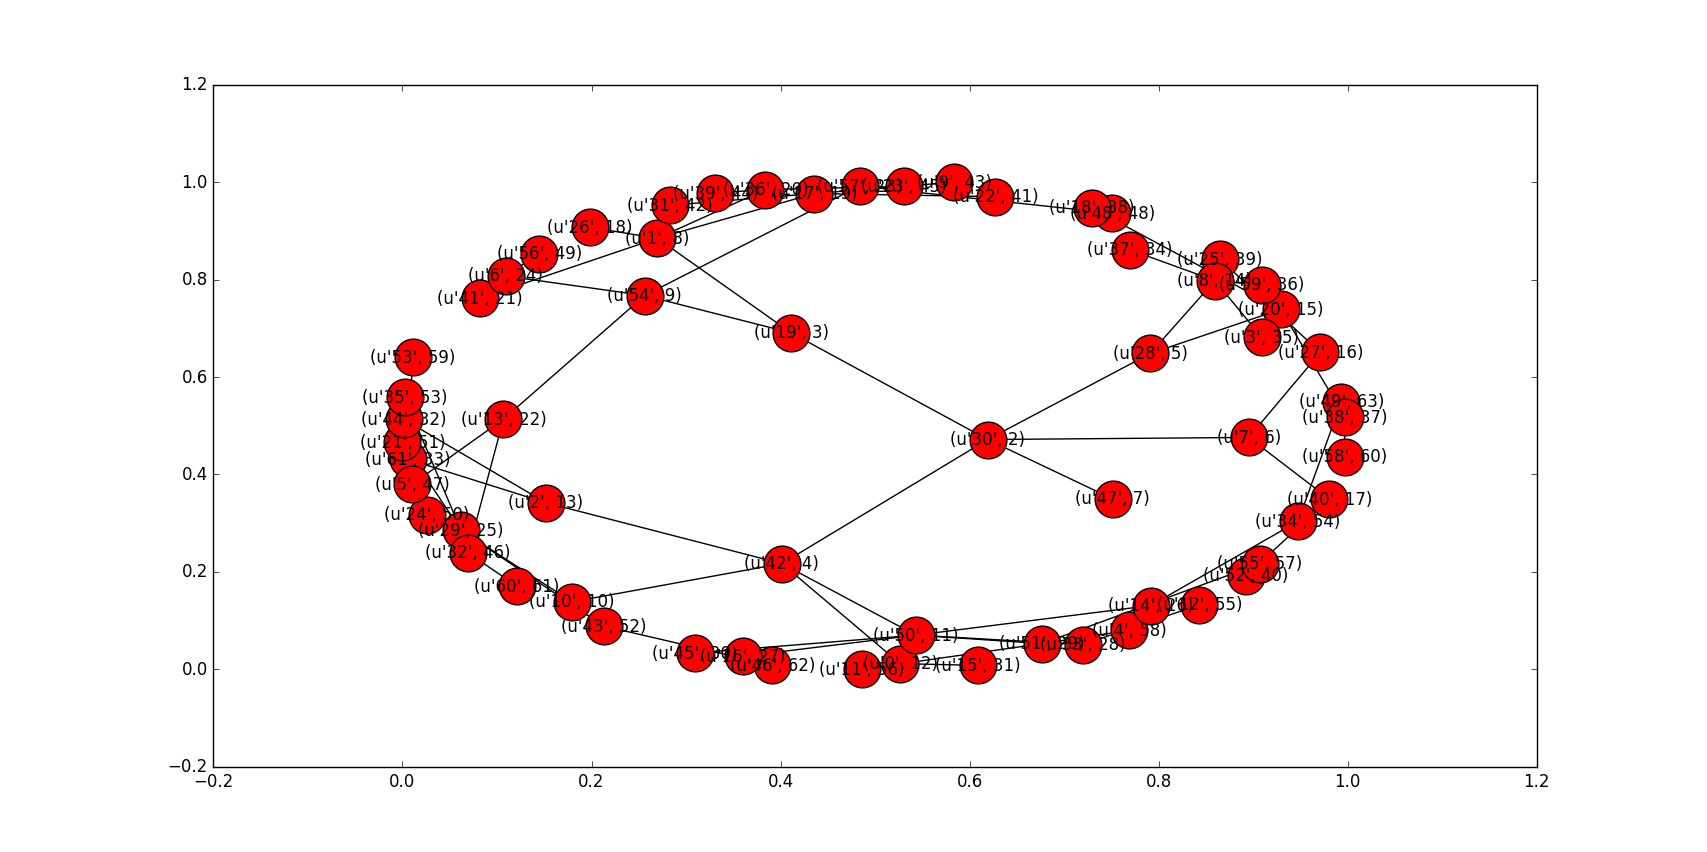
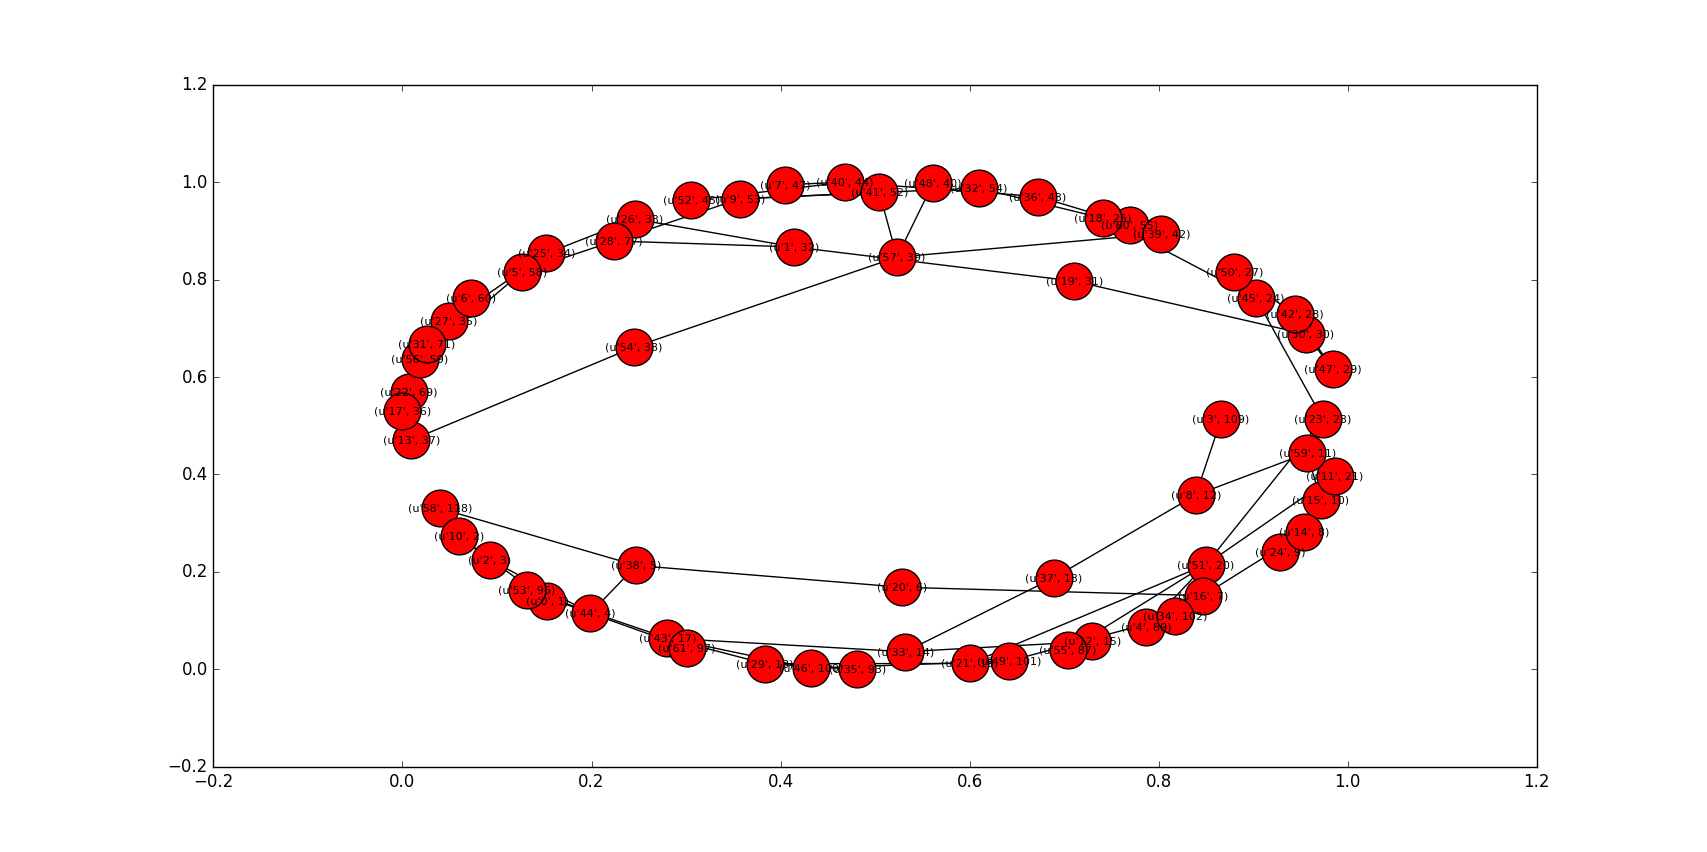
Finishing DFS: could be better

Changed region(s): [[0.2173, 0.1831, 0.8073, 0.8239], [0.5589, 0.4883, 0.621, 0.5493], [0.3105, 0.4272, 0.3415, 0.4577]]

diff --git a/BFS and DFS/dfs.py b/BFS and DFS/dfs.py
@@ -13,95 +13,45 @@ def dfs(G,s):
     for v in G.nodes():
         G.node[v]['color'] = 'white'
         G.node[v]['pi'] = None
-    #incrementa o tempo
-    global time 
+    dfs_visit(G,s)
+
+def dfs_visit(G,u):
+    #dicionario
+    global P 
+    global time
     time += 1
-    #inicia a raiz com a cor cinza e define seu tempo de entrada
-    #G.node[u]['ud'] = time
+    #tempo de entrada do nó
+    G.node[u]['ud'] = time 
     G.node[u]['color'] = 'gray'
-    #inicia a fila Q fazia e insere a raiz na fila
-    Q = deque()
-    Q.append(s)
-    #inicia a fila auxiliar
-    visited = []
-    #enquanto fila não estiver vazia
-    while (len(Q) > 0):
-    #obtem o primeiro elemento da fila
-        u = Q.popleft()
-        #define o tempo de entrada
-        G.node[u]['ud'] = time
-        #insere u na fila de visitados
-        visited.append[u]
-        for v in G.neighbors(u):
-            #coloco todos os vizinhos na fila
-            Q.append(v)
-
-        #tira w da fila de visitados
-        w = Q.popleft()
-        if (G.node[w]['color'] == 'white' and w not in visited):
+    for v in G.neighbors(u): 
+        if (G.node[v]['color'] == 'white'):
             #atualiza o predecessor de v
-            G.node[w]['pi'] = G.node[u]
+            G.node[v]['pi'] = G.node[u]
             #coloco u como antecessor de v
-            P[w] = u
-            #indico que v foi visitado
-            G.node[w]['color'] = 'gray'
-            visited.append[w]
-
+            P[v] = u
+            dfs_visit(G,v)
     G.node[u]['color'] = 'black'
-    time+=1
-    G.node[u]['uf'] = time
-
-    return P
+    time += 1
+    G.node[u]['uf'] = time 
 
 def main():
+    global P
     G = nx.read_pajek('dolphins.paj')
     #print G.nodes()
-    P = dfs(G,G.nodes()[25])
+    dfs(G,G.nodes()[25])
     #print G.nodes()[25]
     T = nx.Graph()
     #insere arestas em T
     T.add_edges_from([(u,v) for u, v in P.items()])
     #posicionamento do grafo T
     pos = nx.spring_layout(T)
-    #plt.figure()
-    #nx.draw(G, pos)
-    #plt.show()
-    #plt.close()
-    #plt.figure()
-    #print T.nodes()
-    #plotar vertices de T
     nx.draw_networkx_nodes(T, pos, node_size=700)
     #obter dicionário com as distâncias
-    #   QUERO MOSTRAR UF E UD 
-    #   COMO???
-    #TESTE 1 
-    '''
-    nx.draw_networkx(T, pos)
-    dict_w = nx.get_edge_attributes(T,'uf')
-    nx.draw_networkx_edge_labels(T, pos, labels = dict_w, font_size = 7, label_pos = 0.5)
-    plt.show()
-    '''
-    #FIM TESTE 1
-    #TESTE 2
-    #dist = { v: (v, data['ud'], data1['ufs']) for v, data, data1 in G.nodes(data=True)}
-    dist = { v: (v, data['ud']) for v, data in G.nodes(data=True)}
-    print 'TESMPO DE ENTRADA'
-    print dist
-    dist = { v: (v, data['uf']) for v, data in G.nodes(data=True)}
-    print 'TESMPO DE SAIDA'
-    print dist
-    '''
-    for i in dist:
-        dist[i] = []
-        dist[i].append({ v: (v, data['ud']) for v, data in G.nodes(data=True)})
-    print dist.items()
-    '''
-    #plotar arestas de T
-    nx.draw_networkx_labels(T, pos, labels=dist)
+    ud = {v: (v, data['ud']) for v, data in G.nodes(data=True)}
+    #uf = {v: (v, data['uf']) for v, data in G.nodes(data=True)}
+    nx.draw_networkx_labels(T, pos, labels=ud, font_size = 8, label_pos = 0.5)
     nx.draw_networkx_edges(T,pos)
     plt.show()
-    #plt.close()
-    #FIM TESTE 2
 
 time = 0
 P = {}
